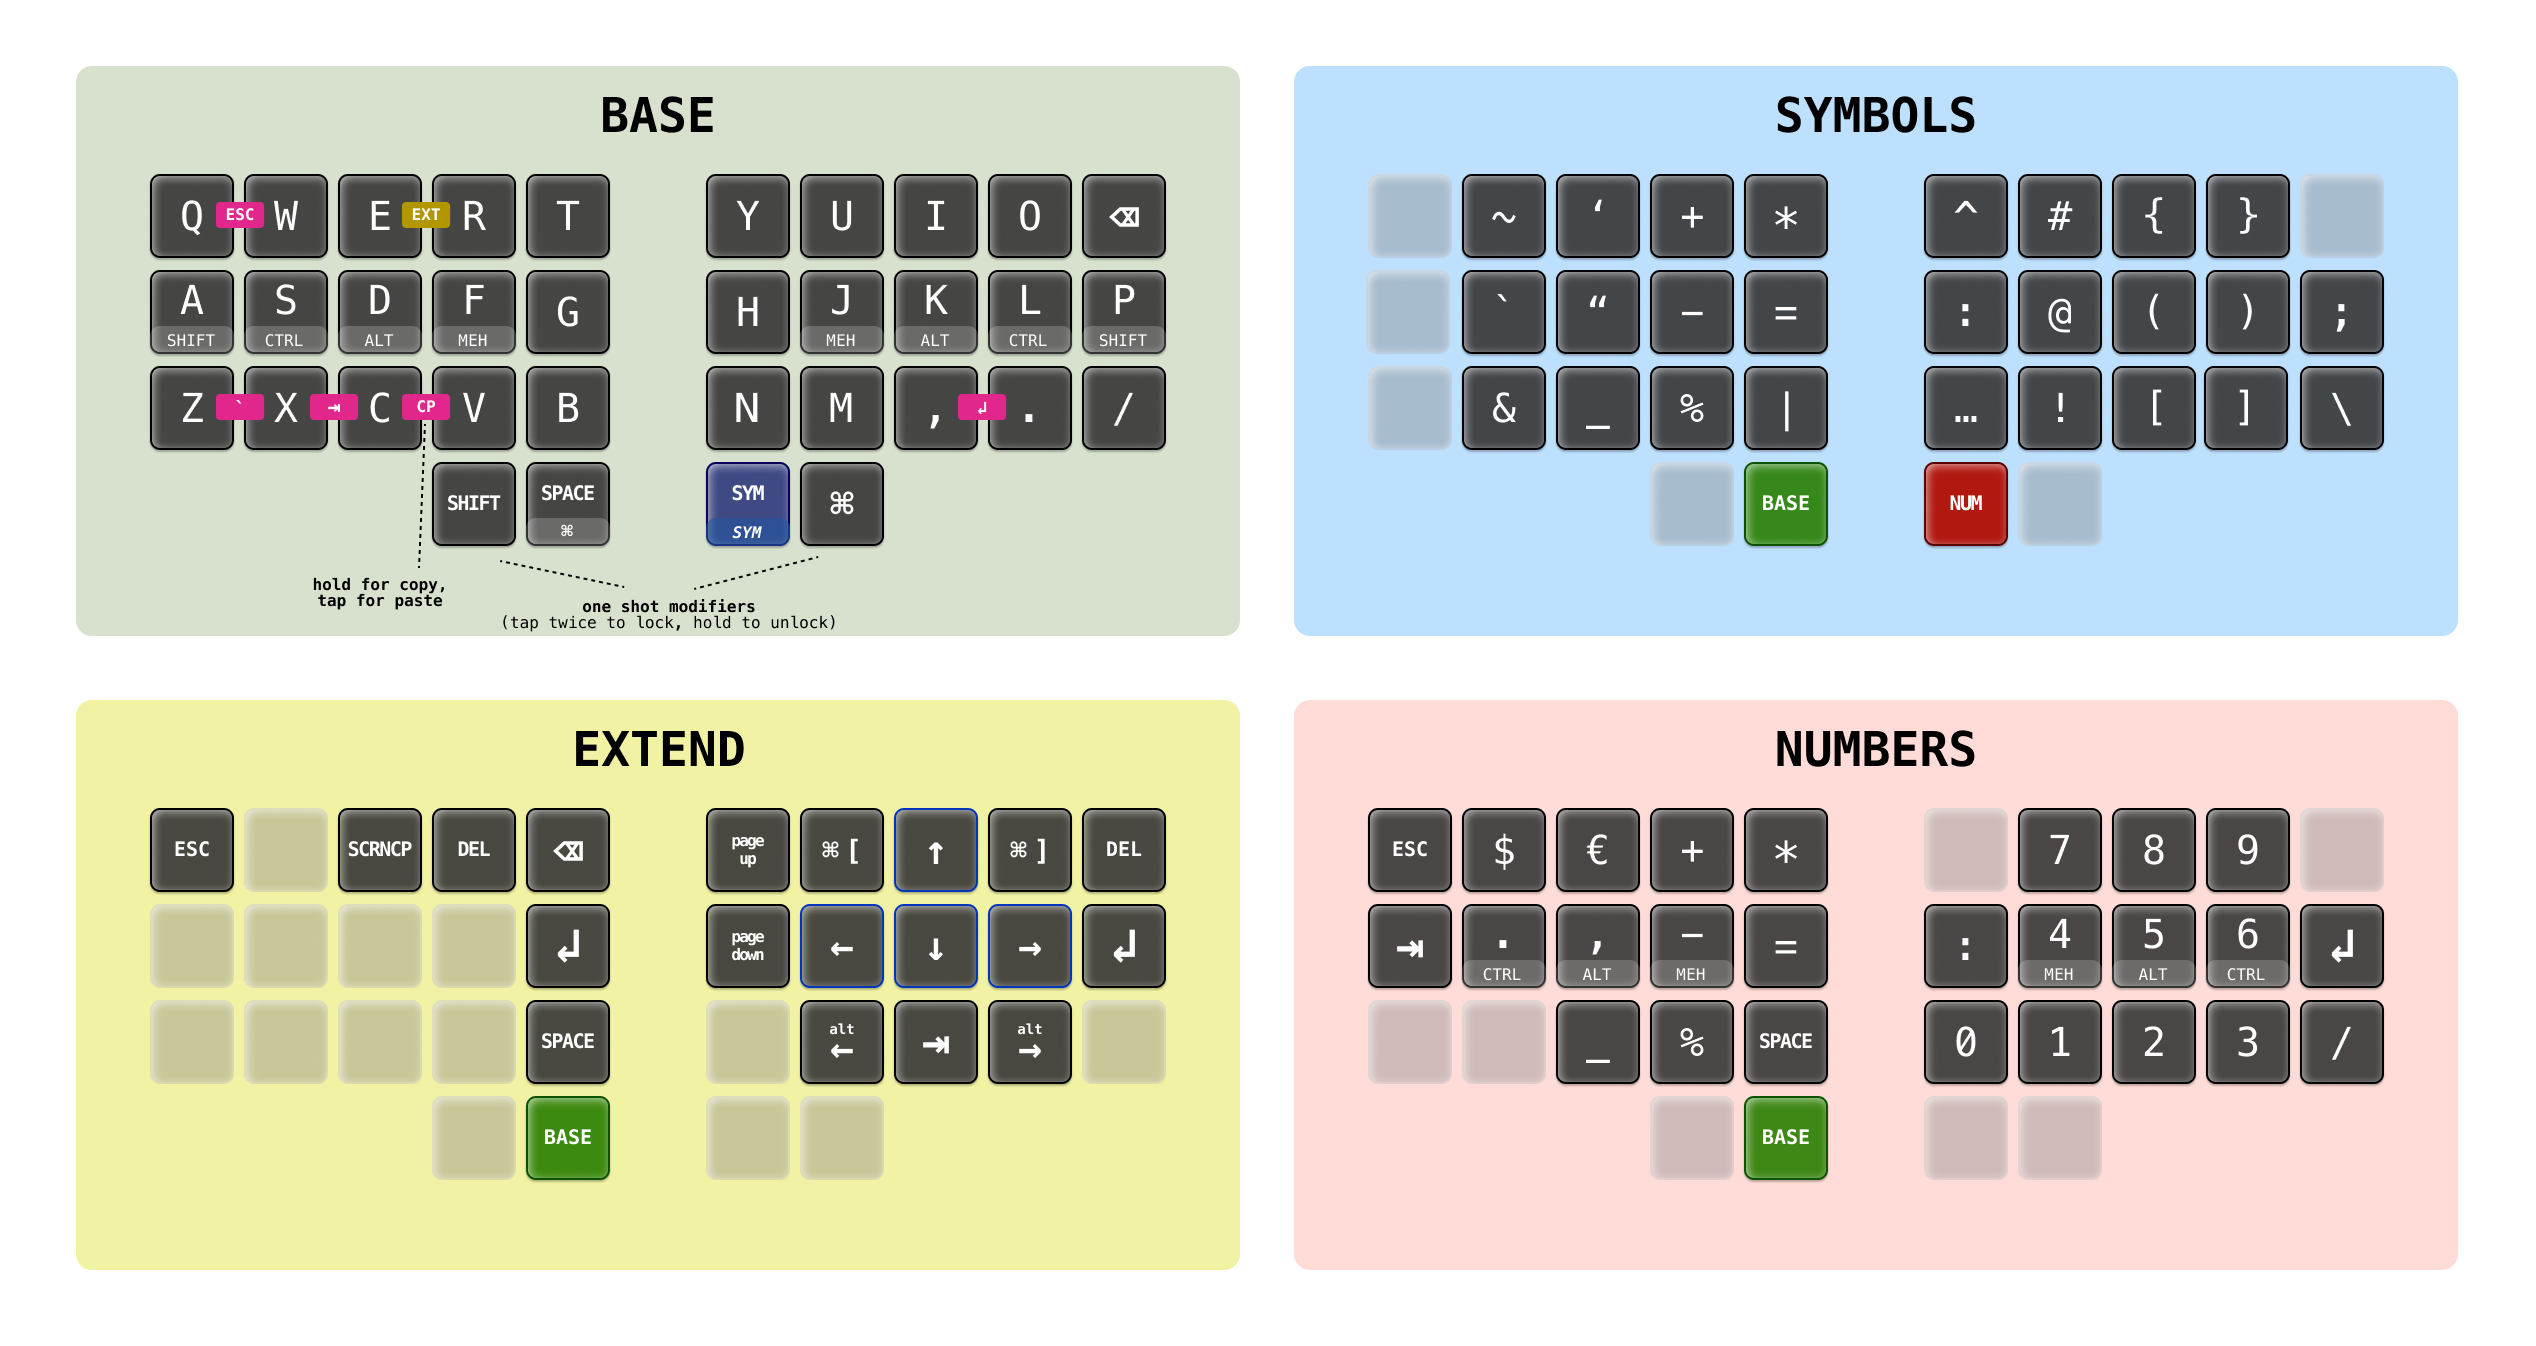
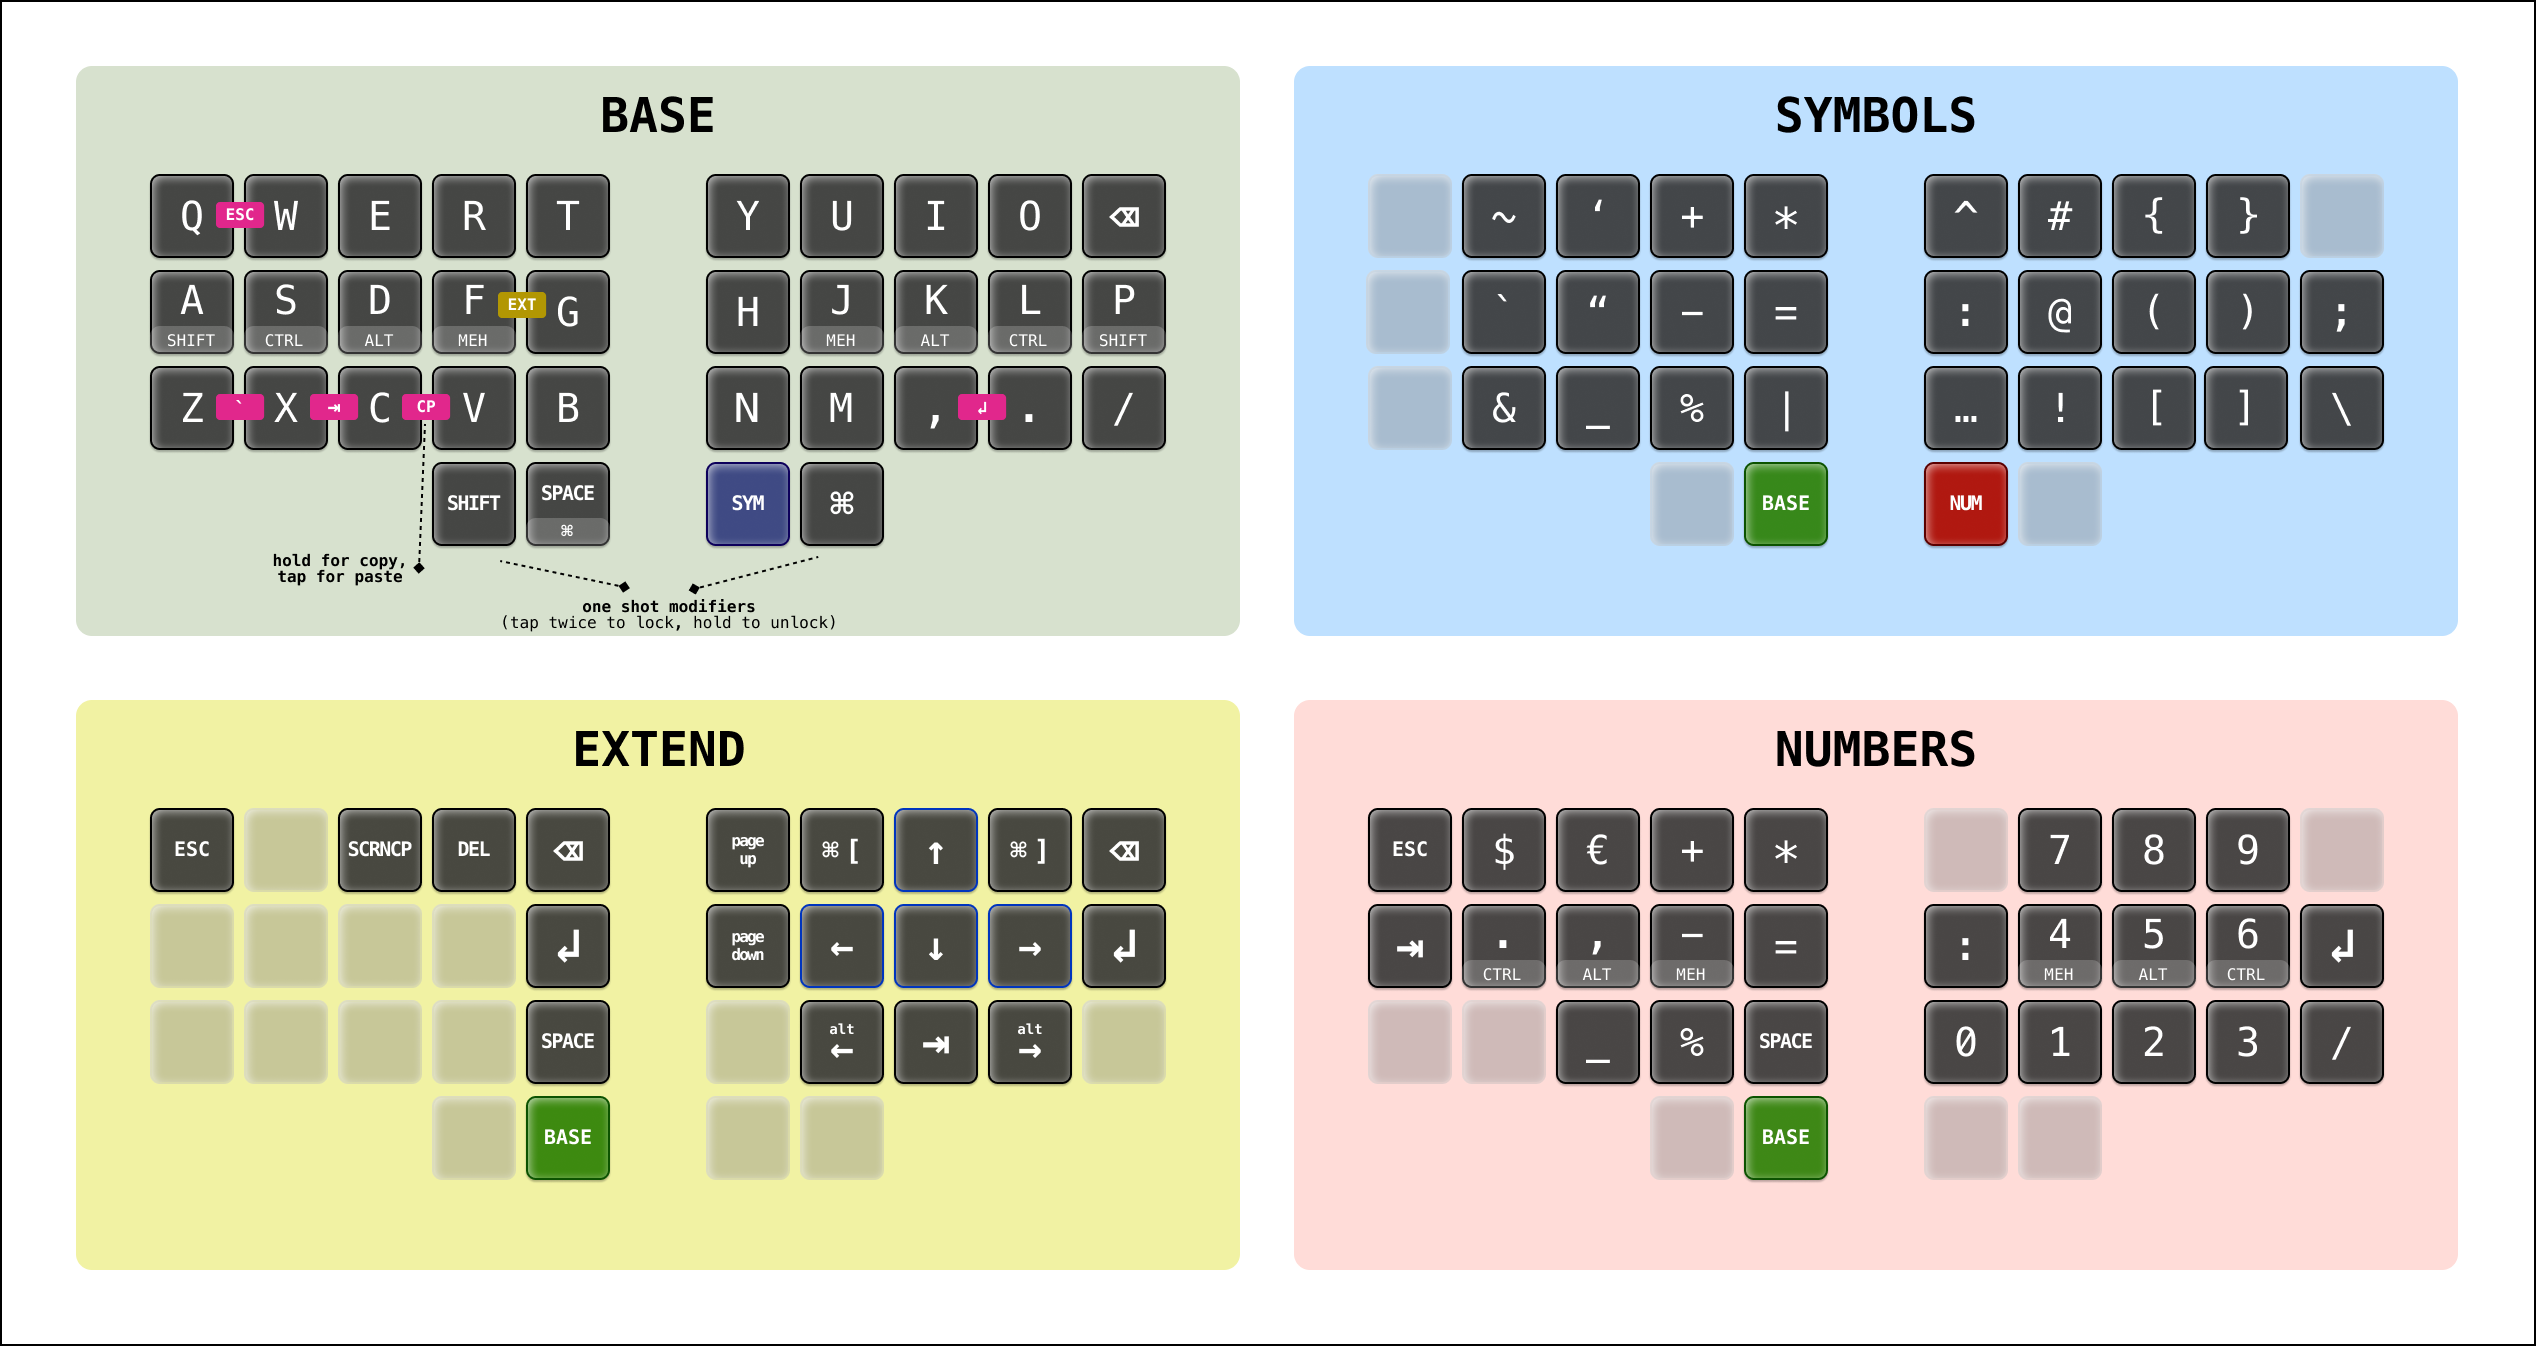
Moved the combo to go to the extend layer

diff --git a/moonlander-mk3/threefourbase.c b/moonlander-mk3/threefourbase.c
@@ -27,8 +27,7 @@ const uint16_t PROGMEM combo1[] = { KC_X, KC_C, COMBO_END};
 const uint16_t PROGMEM combo2[] = { KC_Z, KC_X, COMBO_END};
 const uint16_t PROGMEM combo3[] = { KC_COMMA, KC_DOT, COMBO_END};
 const uint16_t PROGMEM combo4[] = { KC_C, KC_V, COMBO_END};
-const uint16_t PROGMEM combo5[] = { KC_E, KC_R, COMBO_END};
-
+const uint16_t PROGMEM combo5[] = { MEH_T(KC_F), KC_G, COMBO_END};
 
 combo_t key_combos[] = {
 	[CBO_0] = COMBO(combo0, KC_ESCAPE),
@@ -220,7 +219,7 @@ combo_t key_combos[] = {
 #define KR_3_1_7 LGUI(KC_LBRC)
 #define KR_3_1_8 KC_UP
 #define KR_3_1_9 LGUI(KC_RBRC)
-#define KR_3_1_10 KC_DELETE
+#define KR_3_1_10 KC_TRNS
 
 // Mid row
 

diff --git a/technik/threefourbase.c b/technik/threefourbase.c
@@ -27,8 +27,7 @@ const uint16_t PROGMEM combo1[] = { KC_X, KC_C, COMBO_END};
 const uint16_t PROGMEM combo2[] = { KC_Z, KC_X, COMBO_END};
 const uint16_t PROGMEM combo3[] = { KC_COMMA, KC_DOT, COMBO_END};
 const uint16_t PROGMEM combo4[] = { KC_C, KC_V, COMBO_END};
-const uint16_t PROGMEM combo5[] = { KC_E, KC_R, COMBO_END};
-
+const uint16_t PROGMEM combo5[] = { MEH_T(KC_F), KC_G, COMBO_END};
 
 combo_t key_combos[] = {
 	[CBO_0] = COMBO(combo0, KC_ESCAPE),
@@ -220,7 +219,7 @@ combo_t key_combos[] = {
 #define KR_3_1_7 LGUI(KC_LBRC)
 #define KR_3_1_8 KC_UP
 #define KR_3_1_9 LGUI(KC_RBRC)
-#define KR_3_1_10 KC_DELETE
+#define KR_3_1_10 KC_TRNS
 
 // Mid row
 
